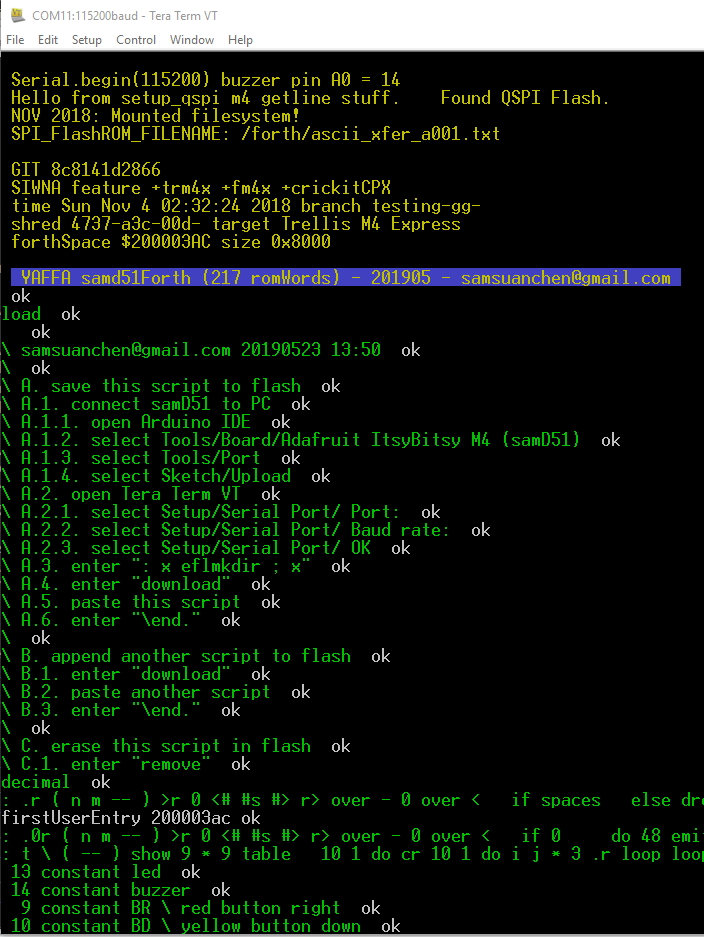
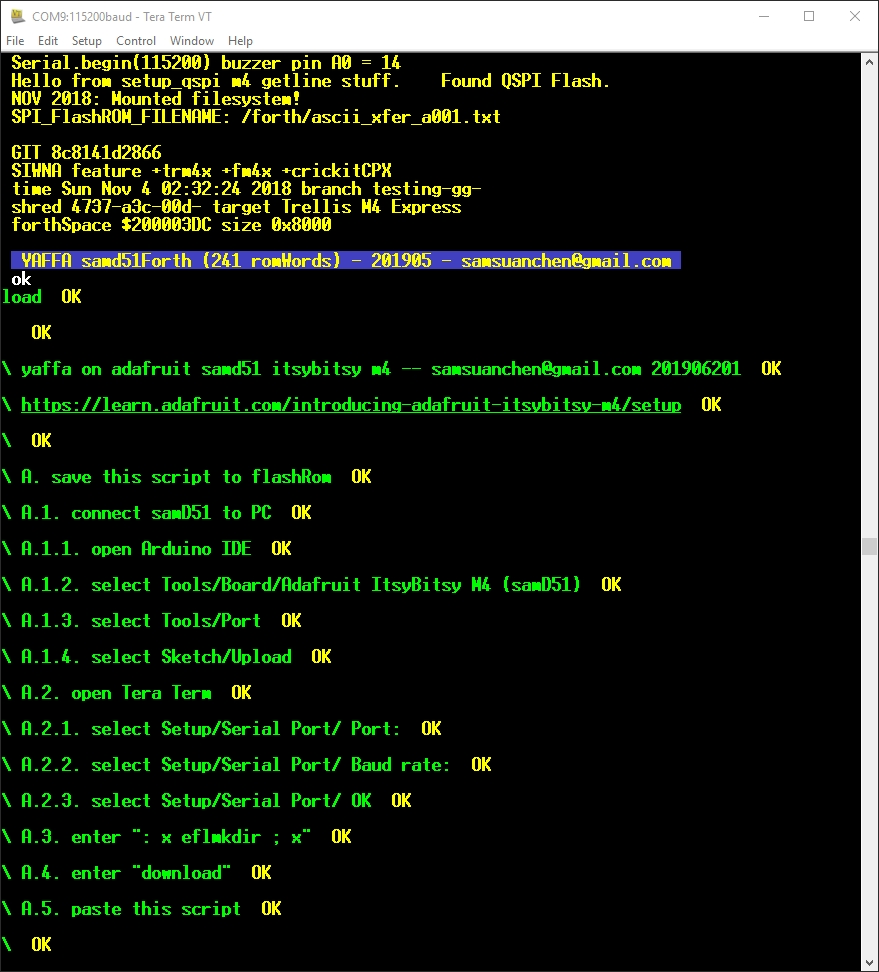
fix throw

diff --git a/src/kernel/throw.h b/src/kernel/throw.h
@@ -11,10 +11,11 @@ extern int8_t errorCode; // = 0;
 extern uint8_t state; // Holds the text interpreters compile/interpreter state
 
 // prototypes - external functions
+extern cell_t *ip_begin, *ip;
 extern cell_t dStack_pop(void);
 extern void dStack_clear(void);
+extern void _quit(void);
 extern void _cr(void);
-extern void _warm(void);
 extern void _fgRed();
 extern void _fgWhite();
 

diff --git a/src/kernel/throw.cpp b/src/kernel/throw.cpp
@@ -37,10 +37,11 @@ void _throw(void) {
     }
     index++;
   } while (tableCode);
+  ip = ip_begin = 0;
   dStack_clear(), state = FALSE;
   extern void waitEsc(void);
   waitEsc();
-  _warm(); // clear rStack too
+  _quit();
 }  
 #endif
 #endif
